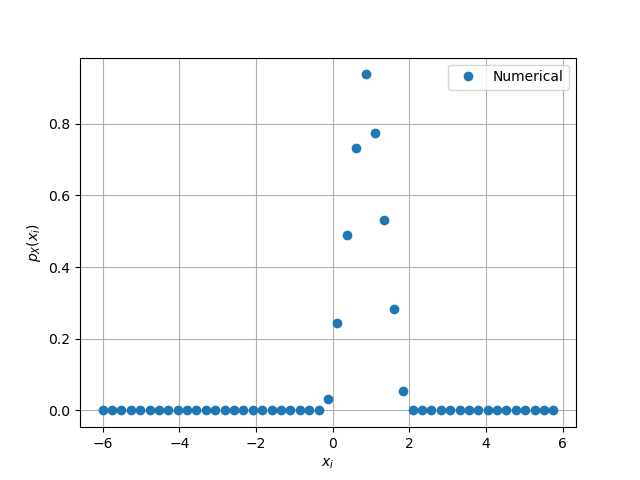
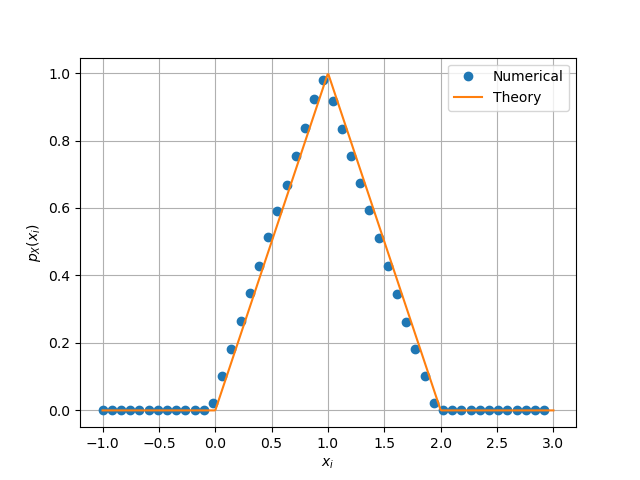
edited and finalize pdf_plot in 4

diff --git a/codes/4/pdf_plot.py b/codes/4/pdf_plot.py
@@ -4,19 +4,13 @@ import mpmath as mp
 import scipy 
 import matplotlib.pyplot as plt
 
-#if using termux
-#import subprocess
-#import shlex
-#end if
-
-
 maxrange=50
-maxlim=6.0
-x = np.linspace(-maxlim,maxlim,maxrange)#points on the x axis
+xi = np.linspace(-1,3,10*maxrange)
+x = np.linspace(-1,3,maxrange)#points on the x axis
 simlen = int(1e6) #number of samples
 err = [] #declaring probability list
 pdf = [] #declaring pdf list
-h = 2*maxlim/(maxrange-1);
+h = 4/(maxrange-1);
 #randvar = np.random.normal(0,1,simlen)
 #randvar = np.loadtxt('uni.dat',dtype='double')
 randvar = np.loadtxt('tri.dat',dtype='double')
@@ -31,26 +25,30 @@ for i in range(0,maxrange-1):
 	test = (err[i+1]-err[i])/(x[i+1]-x[i])
 	pdf.append(test) #storing the pdf values in a list
 
-def gauss_pdf(x):
-	return 1/mp.sqrt(2*np.pi)*np.exp(-x**2/2.0)
+def tri_pdf(i):
+	#for i in x:
+	if i < 0:
+		return 0
+	elif i<=1:
+		return i
+	elif i<2:
+		return 2-i
+	else:
+		return 0
+
+theopdf = []
+
+for i in xi:
+	theopdf.append(tri_pdf(i))
 	
-vec_gauss_pdf = scipy.vectorize(gauss_pdf)
+#vec_tri_pdf = scipy.vectorize(tri_pdf)
 
 plt.plot(x[0:(maxrange-1)].T,pdf,'o')
-#plt.plot(x, vec_gauss_pdf(x))#plotting the CDF
+plt.plot(xi, theopdf)#plotting the CDF
 plt.grid() #creating the grid
 plt.xlabel('$x_i$')
 plt.ylabel('$p_X(x_i)$')
 plt.legend(["Numerical","Theory"])
 
-#if using termux
-#plt.savefig('../figs/uni_pdf.pdf')
-#plt.savefig('../figs/uni_pdf.eps')
-#subprocess.run(shlex.split("termux-open ../figs/uni_pdf.pdf"))
-#if using termux
 plt.savefig('fig/tri_pdf.png')
-#plt.savefig('fig/gauss_pdf.eps')
-#subprocess.run(shlex.split("termux-open ../figs/gauss_pdf.pdf"))
-#else
 plt.show() #opening the plot window
-
